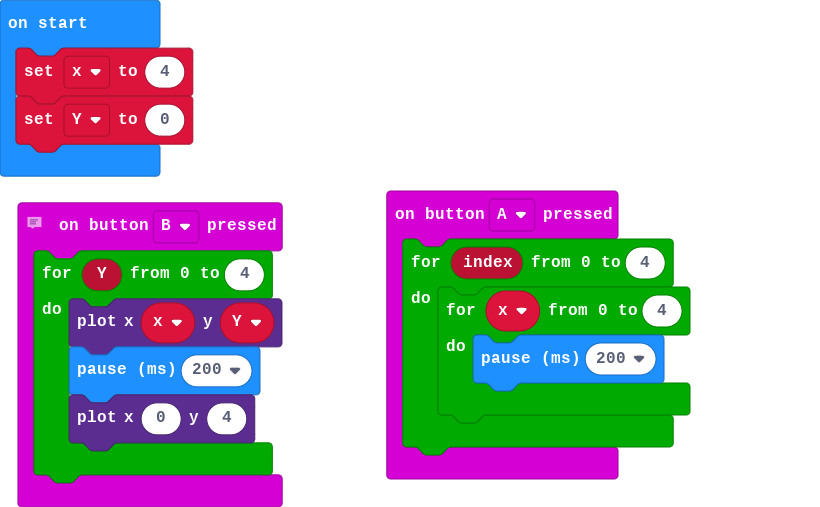
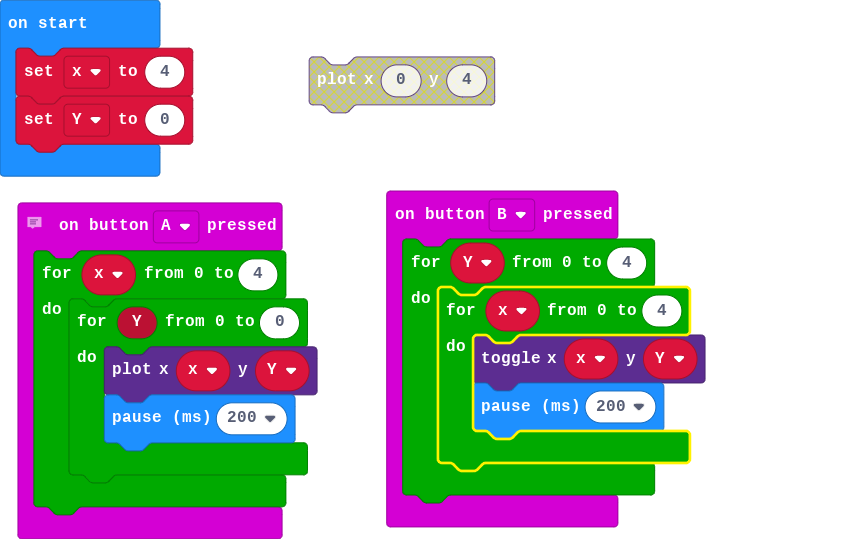
Update main.blocks, main.ts

diff --git a/main.ts b/main.ts
@@ -1,19 +1,20 @@
+// Counter
+// 0 1 21 3
 input.onButtonPressed(Button.A, function () {
-    for (let index = 0; index <= 4; index++) {
-        for (let x = 0; x <= 4; x++) {
+    for (let x = 0; x <= 4; x++) {
+        for (let Y = 0; Y <= 0; Y++) {
+            led.plot(x, Y)
             basic.pause(200)
         }
     }
 })
-// Counter
-// 0 1 21 3
 input.onButtonPressed(Button.B, function () {
     for (let Y = 0; Y <= 4; Y++) {
-        led.plot(x, Y)
-        basic.pause(200)
-        led.plot(0, 4)
+        for (let x = 0; x <= 4; x++) {
+            led.toggle(x, Y)
+            basic.pause(200)
+        }
     }
 })
-let x = 0
-x = 4
+let x = 4
 let Y = 0
